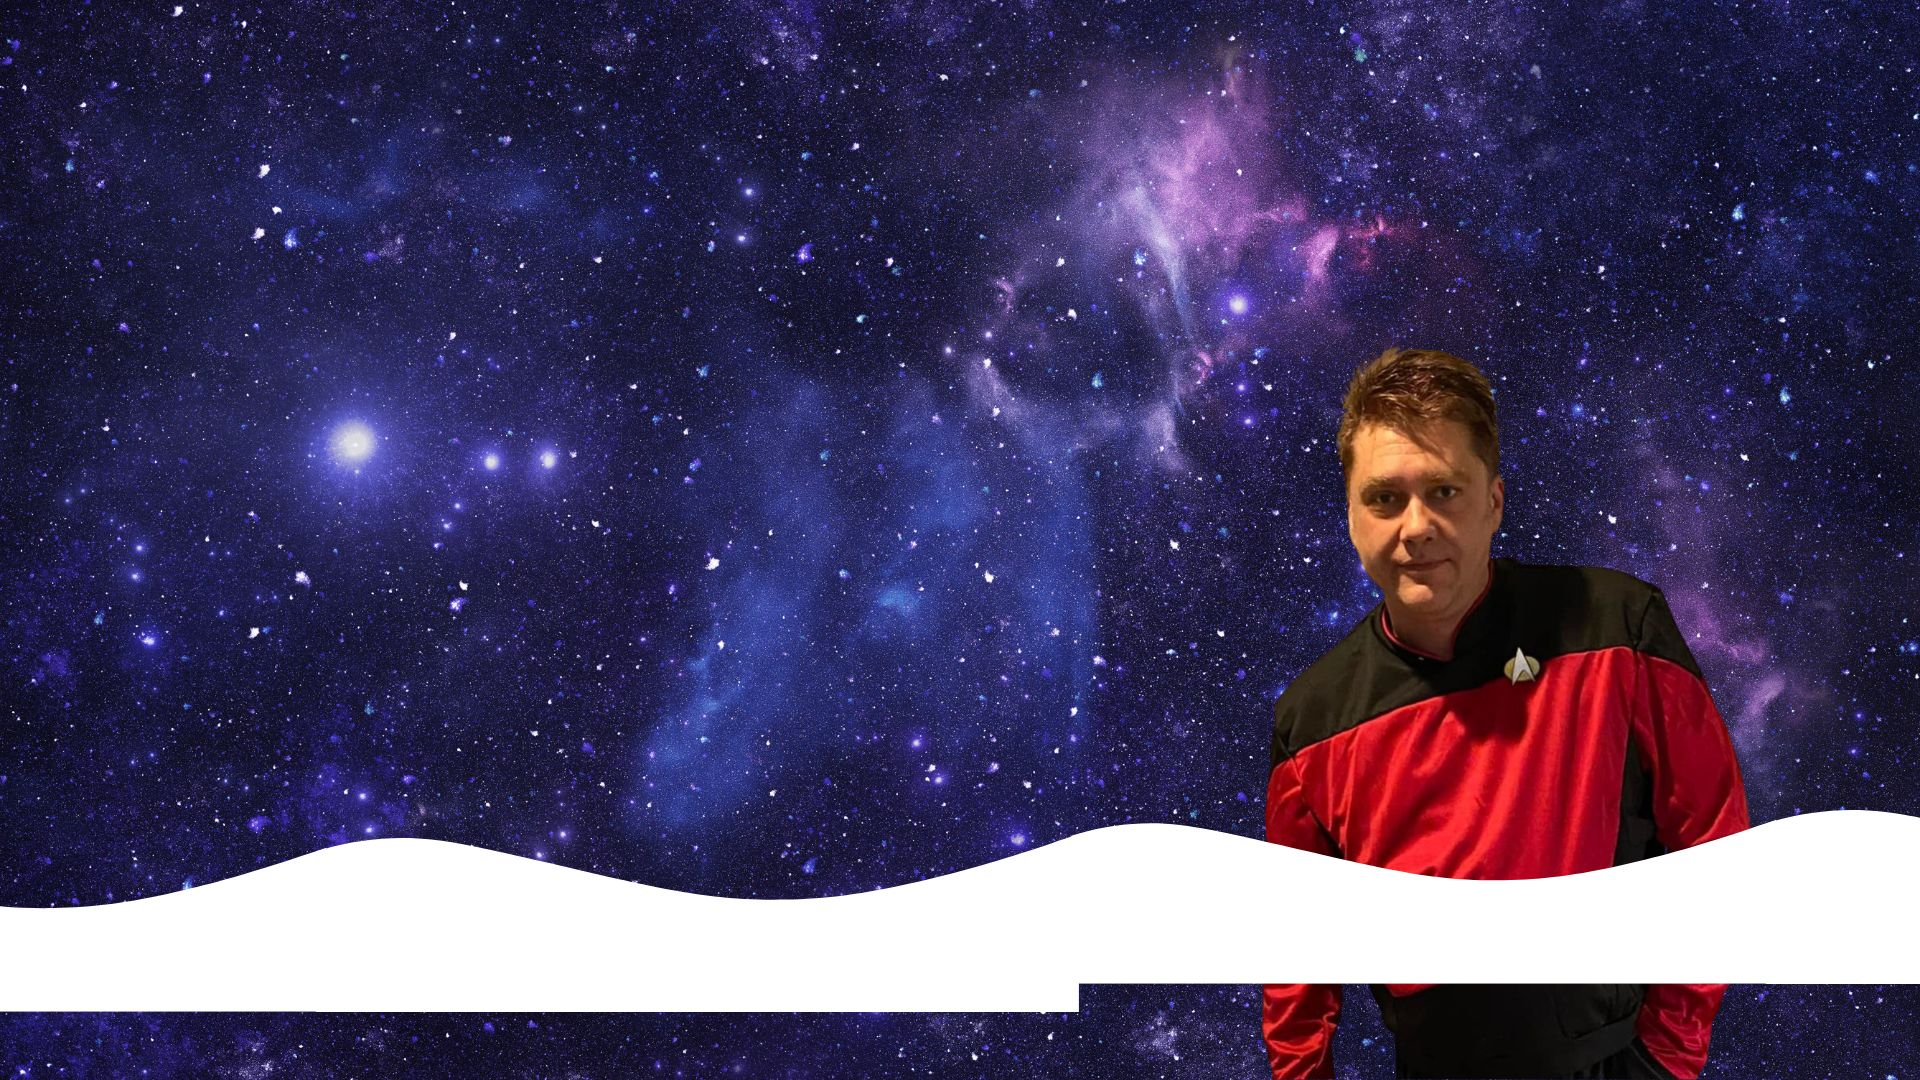
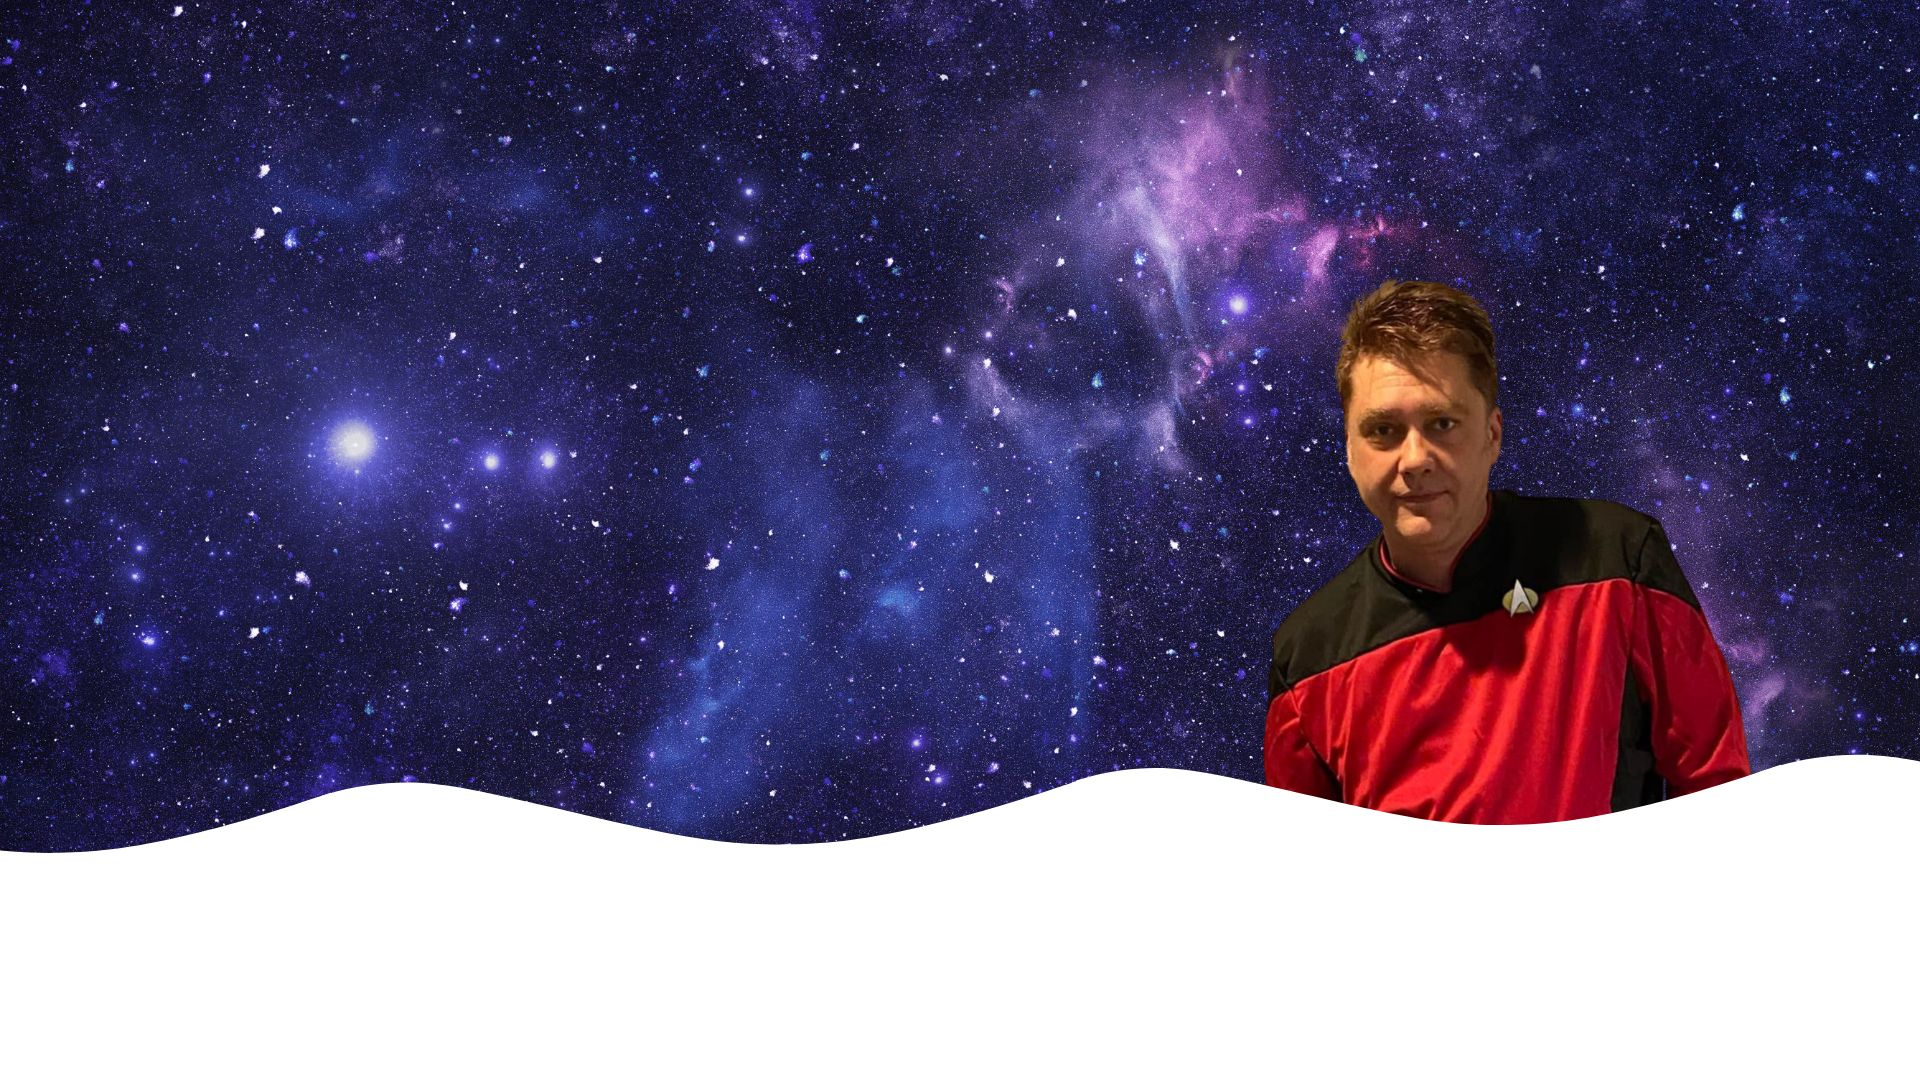
Adjust layout of hero section

Changed region(s): [[0.0, 0.2444, 1.0, 0.8556], [0.0, 0.8861, 1.0, 1.0]]

diff --git a/css/style.css b/css/style.css
@@ -74,11 +74,12 @@ nav>button {
 }
 
 .hero {
-    min-height: 80vh;
+    min-height: 70vh;
     width: 100vw;
     background: url('../images/hero-section-wavy.jpg') no-repeat center center;
     background-size: cover;
-    padding-top: 7vh;
+    padding-top: 2vh;
+    border: 1px solid black;
 }
 
 .column-half {
